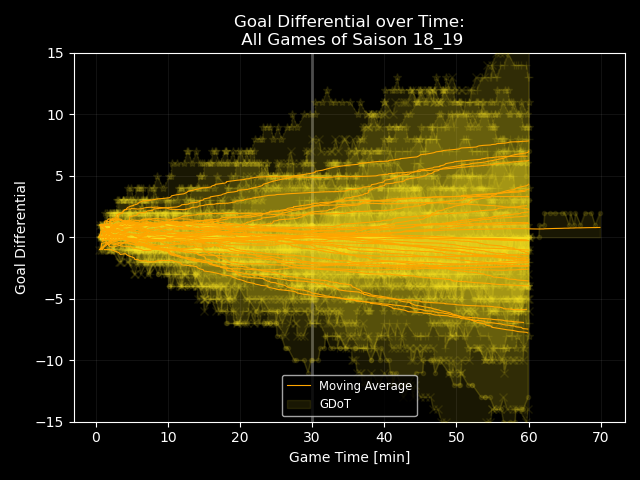
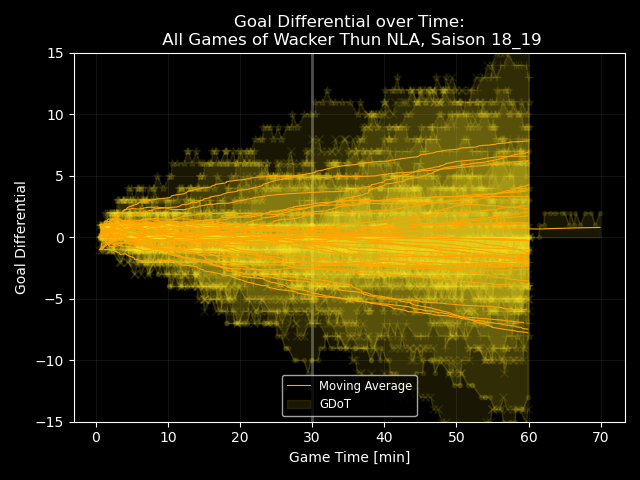
closes #17

Changed region(s): [[0.25, 0.0625, 0.8438, 0.0938]]

diff --git a/lib/plotterGameProgression.py b/lib/plotterGameProgression.py
@@ -159,7 +159,7 @@ def plotDF(mode, df, team_folder, season, home, away, date):
         gridlines[4].set_alpha(0.3)
         plt.ylabel('Goal Differential')
         plt.xlabel('Game Time [min]')
-        plt.title(f'Goal Differential over Time:\n All Games of {season}')
+        plt.title(f'Goal Differential over Time:\n All Games of {team_folder}, {season}')
 
         handles, labels = ax.get_legend_handles_labels()
         handle_list, label_list = [], []
